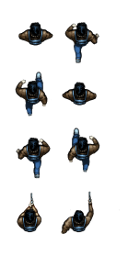
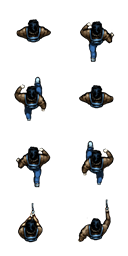
assets

diff --git a/core/src/it/unical/igpe/screens/GameScreen.java b/core/src/it/unical/igpe/screens/GameScreen.java
@@ -9,6 +9,7 @@ import com.badlogic.gdx.graphics.GL20;
 import com.badlogic.gdx.graphics.OrthographicCamera;
 import com.badlogic.gdx.graphics.g2d.SpriteBatch;
 import com.badlogic.gdx.graphics.g2d.TextureRegion;
+import com.badlogic.gdx.math.MathUtils;
 import com.badlogic.gdx.math.Vector2;
 import com.badlogic.gdx.math.Vector3;
 
@@ -154,7 +155,9 @@ public class GameScreen implements Screen {
 	    return angle;*/
 		
 		float angle = 0.0f;
-		
+		/* Versione di kikke
+		 * 
+		 * 
 		Vector2 center = new Vector2(GameConfig.WIDTH / 2 , GameConfig.HEIGHT / 2);
 		Vector2 mouse = new Vector2(x, y);
 		//arccos
@@ -165,9 +168,33 @@ public class GameScreen implements Screen {
 		
 		System.out.println(angle);
 		System.out.println("Center " + center.x+ " " + center.y);
+		*/
 		
+		// centerX and centerY are the center points of the sprite. playerX and playerY are the co-ordinates of the sprite.
+		
+		float centerX = player.getPos().x ;
+		float centerY = player.getPos().y ;
+		Vector2 mouse = new Vector2(x, y);         
+		float radiansToMouse = (float) Math.atan2(centerX - mouse.x, centerY - mouse.y);
+		         
+		float degreesToMouse = (60f*radiansToMouse) * -1;
+		
+		int x1=Gdx.input.getX();
+        int y1=Gdx.graphics.getHeight()-Gdx.input.getY();
+
+        double radians= Math.atan2(y1 - centerY, x1 - centerX);
+        float angle1=(float)radians*MathUtils.radiansToDegrees; //here
+        launcherSpr.setRotation(angle);
+		
+		
+		angle=degreesToMouse;
+		System.out.println(angle);
+		
+		
+		/*mouse.Normalize();
+		float rotationInRadians = (float)Math.atan2((double)direction.Y, 
+		                             (double)direction.X) + MathHelper.PiOver2;*/
 		return angle;
-		
 	}
 	
 	@Override

diff --git a/core/src/it/unical/igpe/Assets.java b/core/src/it/unical/igpe/Assets.java
@@ -3,6 +3,7 @@ package it.unical.igpe;
 import com.badlogic.gdx.Gdx;
 import com.badlogic.gdx.graphics.Texture;
 import com.badlogic.gdx.graphics.g2d.Animation;
+import com.badlogic.gdx.graphics.g2d.TextureAtlas;
 import com.badlogic.gdx.graphics.g2d.TextureRegion;
 
 public class Assets {
@@ -28,7 +29,8 @@ public class Assets {
 		Wood = tmp[0][3];
 
 		// load character's texture
-		walkSheet = new Texture(Gdx.files.internal("player.png"));
+		
+		walkSheet = new Texture(Gdx.files.internal("player1.png"));
 		tmp = TextureRegion.split(walkSheet, walkSheet.getWidth() / 2, walkSheet.getHeight() / 4);
 		TextureRegion[] walkFrames = new TextureRegion[2 * 3];
 		TextureRegion[] shootFrames = new TextureRegion[2 * 1];
